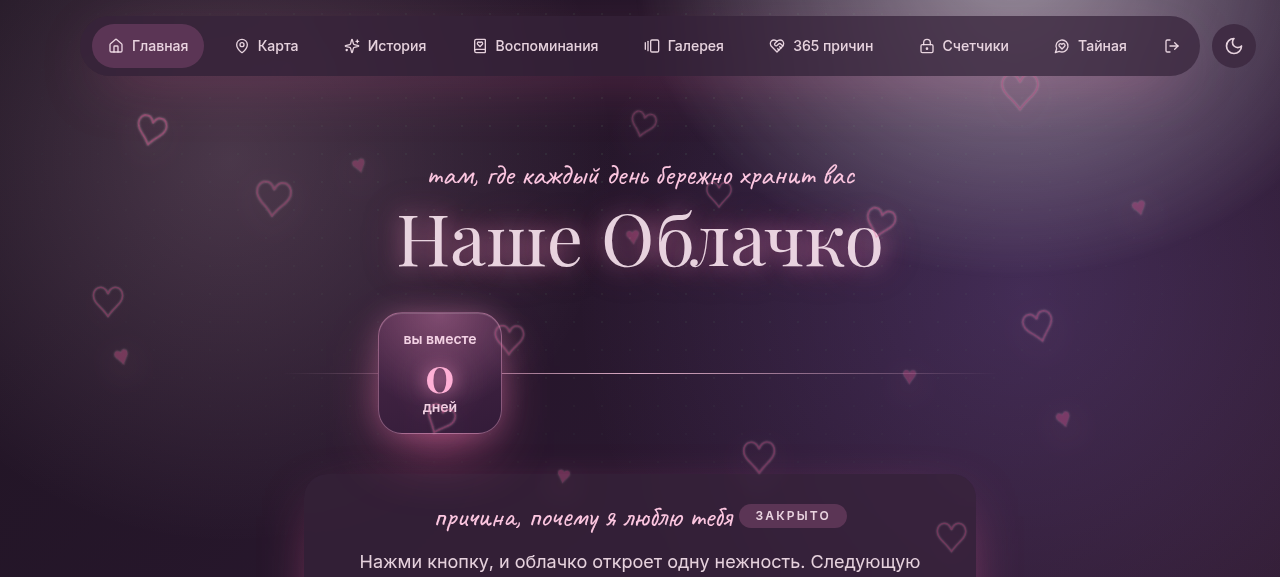
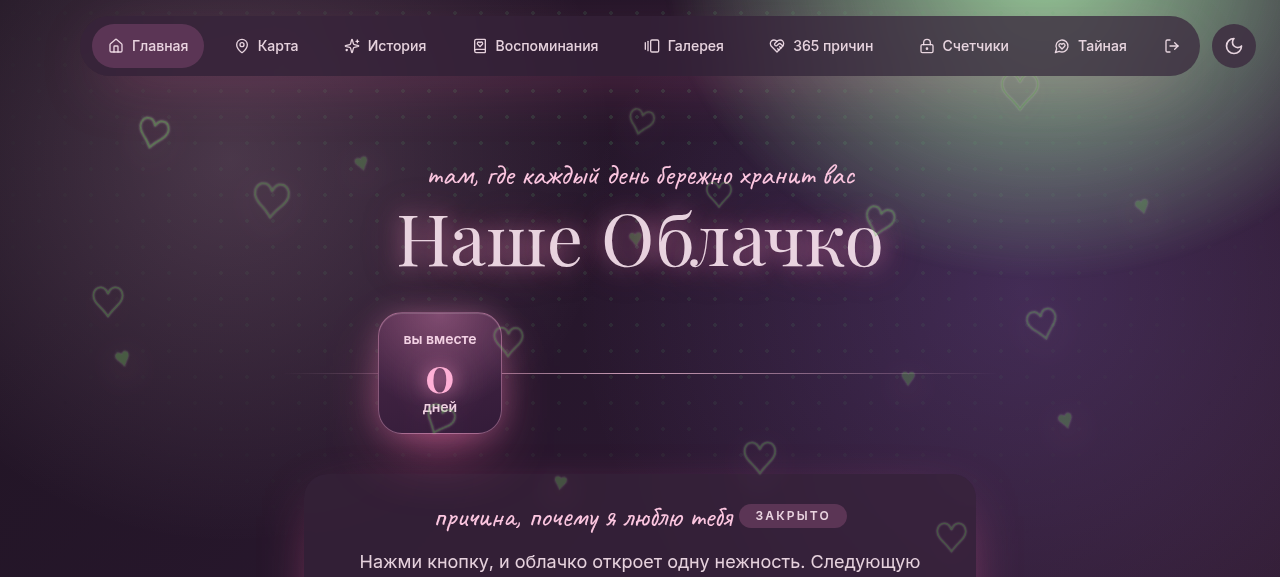
feat: update seasonal color palettes and aurora glow effects

diff --git a/src/app/globals.css b/src/app/globals.css
@@ -10,38 +10,47 @@
      Defaults below are the year-round pink/peach values; each season below
      overrides a subset. Consumed by the aurora glow, the dotted lattice and
      the floating hearts. To add a season: append a [data-season] block. */
-  --season-glow-warm: rgba(255, 224, 212, 0.5); /* aurora blob B */
-  --season-glow-cool: rgba(252, 198, 224, 0.55); /* aurora blob C */
-  --season-pattern: rgba(236, 95, 156, 0.16); /* dotted lattice */
+  --season-glow-a: rgba(255, 214, 236, 0.6); /* aurora blob A (usually pink) */
+  --season-glow-warm: rgba(255, 224, 212, 0.55); /* aurora blob B */
+  --season-glow-cool: rgba(252, 198, 224, 0.6); /* aurora blob C */
+  --season-pattern: rgba(236, 95, 156, 0.18); /* dotted lattice */
   --season-heart: #ec5f9c; /* floating hearts */
 }
 
 /* Весна (март–май): свежие зелёные акценты. */
 :root[data-season="spring"] {
-  --season-glow-warm: rgba(212, 241, 212, 0.55);
-  --season-glow-cool: rgba(255, 224, 240, 0.5);
-  --season-pattern: rgba(120, 190, 140, 0.18);
+  --season-glow-a: rgba(255, 200, 226, 0.55);
+  --season-glow-warm: rgba(150, 224, 150, 0.85);
+  --season-glow-cool: rgba(190, 235, 165, 0.8);
+  --season-pattern: rgba(90, 180, 110, 0.32);
+  --season-heart: #6bbf59;
 }
 
 /* Лето (июнь–август): тёплое золото и персик. */
 :root[data-season="summer"] {
-  --season-glow-warm: rgba(255, 217, 102, 0.5);
-  --season-glow-cool: rgba(255, 200, 170, 0.55);
-  --season-pattern: rgba(255, 176, 84, 0.18);
+  --season-glow-a: rgba(255, 190, 150, 0.7);
+  --season-glow-warm: rgba(255, 205, 70, 0.9);
+  --season-glow-cool: rgba(255, 165, 120, 0.85);
+  --season-pattern: rgba(255, 150, 50, 0.34);
+  --season-heart: #ff8a3d;
 }
 
 /* Осень (сентябрь–ноябрь): терракота и тёплый оранжевый. */
 :root[data-season="autumn"] {
-  --season-glow-warm: rgba(232, 113, 77, 0.45);
-  --season-glow-cool: rgba(255, 170, 110, 0.5);
-  --season-pattern: rgba(200, 90, 50, 0.18);
+  --season-glow-a: rgba(230, 130, 80, 0.7);
+  --season-glow-warm: rgba(220, 90, 50, 0.85);
+  --season-glow-cool: rgba(240, 150, 70, 0.85);
+  --season-pattern: rgba(190, 75, 40, 0.34);
+  --season-heart: #d85a2c;
 }
 
 /* Зима (декабрь–февраль): прохладная сирень и фиолетовые блики. */
 :root[data-season="winter"] {
-  --season-glow-warm: rgba(190, 150, 235, 0.45);
-  --season-glow-cool: rgba(226, 212, 240, 0.55);
-  --season-pattern: rgba(150, 110, 200, 0.18);
+  --season-glow-a: rgba(200, 200, 245, 0.65);
+  --season-glow-warm: rgba(160, 120, 230, 0.8);
+  --season-glow-cool: rgba(200, 190, 245, 0.85);
+  --season-pattern: rgba(130, 95, 200, 0.32);
+  --season-heart: #8f6be0;
 }
 
 :root[data-theme="night"] {
@@ -262,13 +271,13 @@ body::after {
   inset: -20%;
   z-index: -2;
   pointer-events: none;
-  /* Blob A stays pink (brand); blobs B and C shift with the season. */
+  /* All three aurora blobs shift with the season for a clearly visible mood. */
   background:
-    radial-gradient(38rem 30rem at 22% 18%, rgba(255, 214, 236, 0.55), transparent 70%),
+    radial-gradient(38rem 30rem at 22% 18%, var(--season-glow-a), transparent 70%),
     radial-gradient(34rem 28rem at 82% 30%, var(--season-glow-warm), transparent 70%),
     radial-gradient(40rem 32rem at 60% 92%, var(--season-glow-cool), transparent 72%);
   background-size: 200% 200%;
-  filter: blur(6px);
+  filter: blur(4px) saturate(1.15);
   animation: aurora-drift 26s ease-in-out infinite;
 }
 
@@ -280,9 +289,9 @@ body::before {
   inset: 0;
   z-index: -1;
   pointer-events: none;
-  background-image: radial-gradient(var(--season-pattern) 1.4px, transparent 1.5px);
-  background-size: 28px 28px;
-  opacity: 0.5;
+  background-image: radial-gradient(var(--season-pattern) 1.8px, transparent 2px);
+  background-size: 26px 26px;
+  opacity: 0.75;
   -webkit-mask-image: radial-gradient(ellipse at 50% 24%, black, transparent 78%);
   mask-image: radial-gradient(ellipse at 50% 24%, black, transparent 78%);
 }
